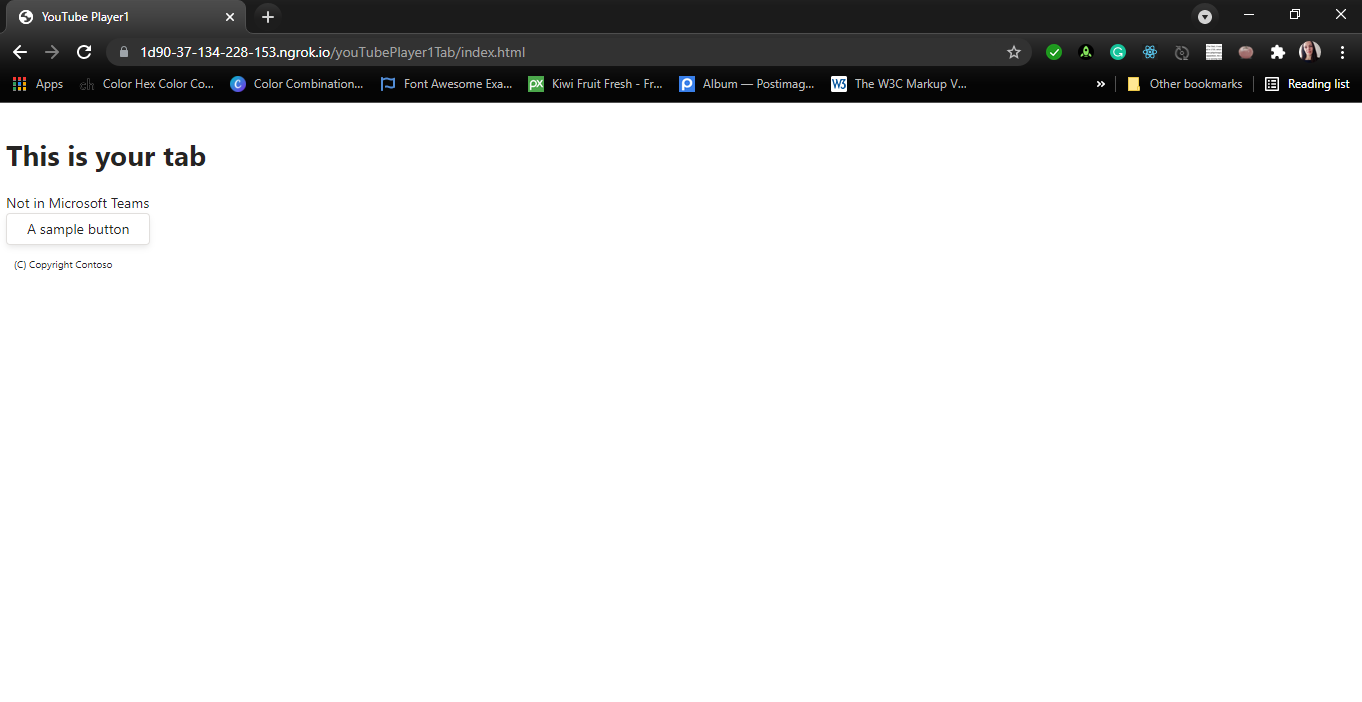
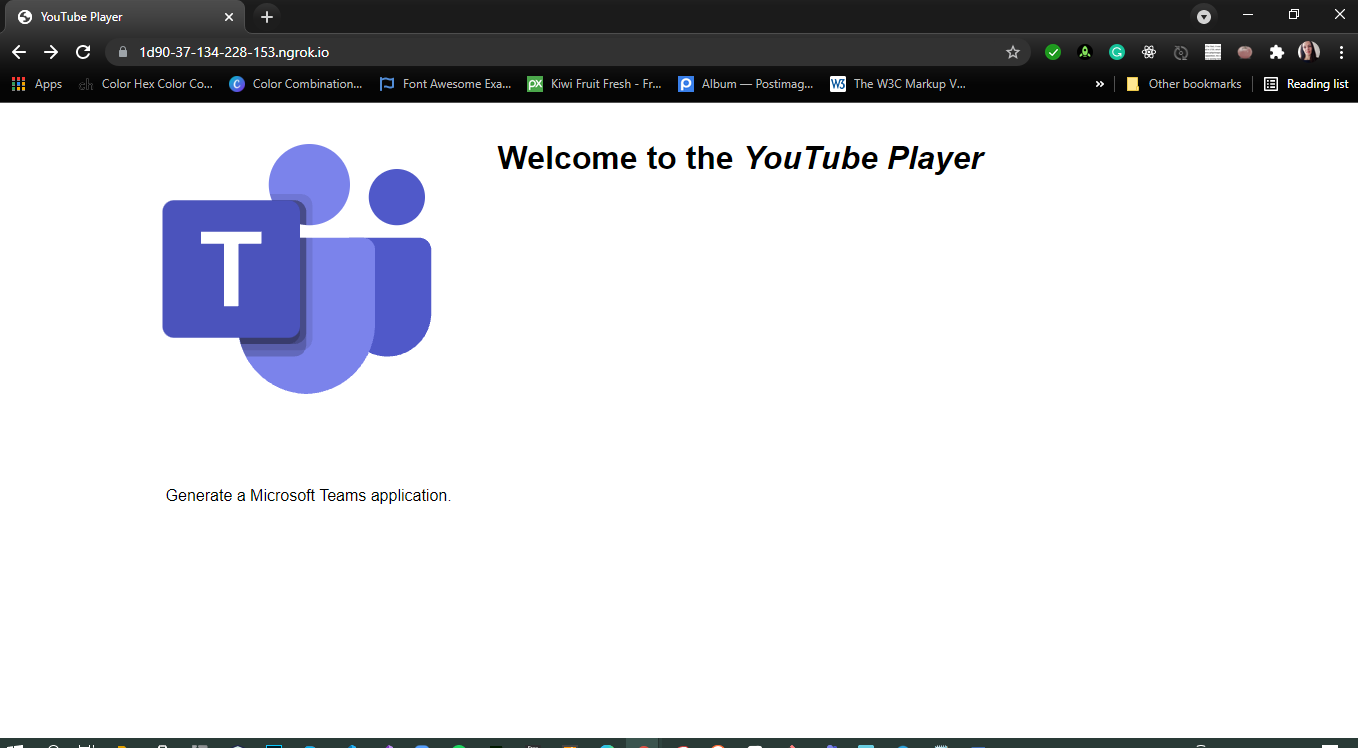
lab04 ex1 evidencias

diff --git a/Lab04/ReadMe.md b/Lab04/ReadMe.md
@@ -27,3 +27,24 @@ Test the personal tab
 Implement the personal tab's user interface
 
 ![040110](evidenciasFotos/040110.PNG)
+
+![040111](evidenciasFotos/040111.PNG)
+
+Test the personal tab
+
+![040112](evidenciasFotos/040112.PNG)
+
+## Task 2: Add video player task module
+
+![040113](evidenciasFotos/040113.PNG)
+
+![040114](evidenciasFotos/040114.PNG)
+
+![040115](evidenciasFotos/040115.PNG)
+
+![040116](evidenciasFotos/040116.PNG)
+
+
+Test the video player task module
+
+![040117](evidenciasFotos/040117.PNG)
